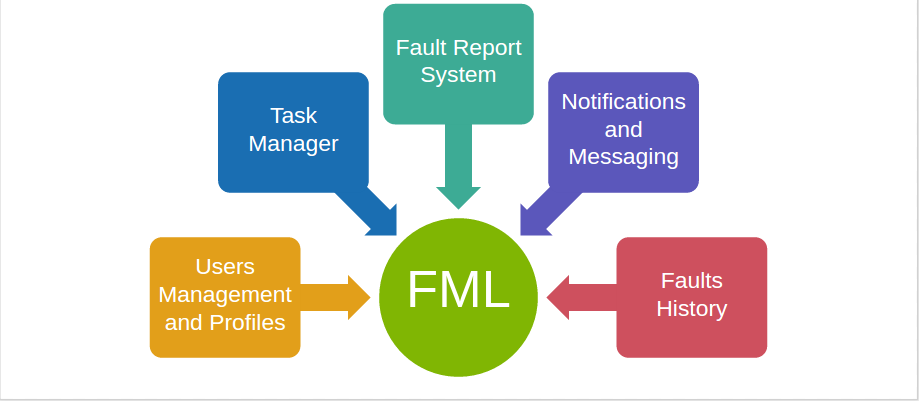
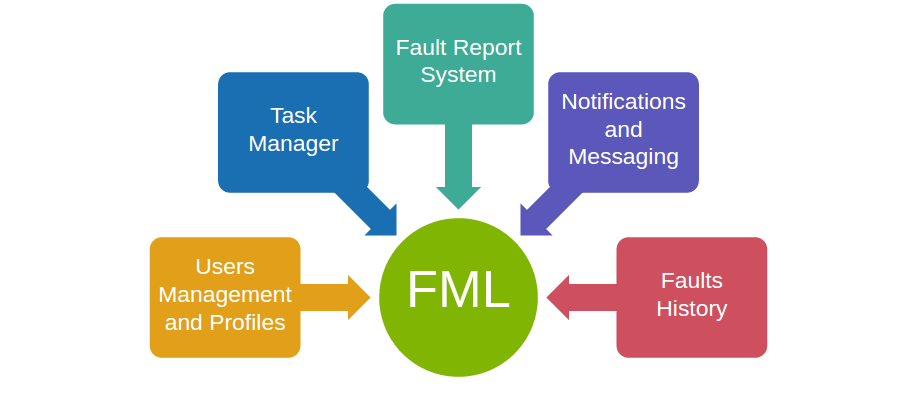
Minor fixes in the subsystem image

Changed region(s): [[0.0, 0.9875, 1.0, 1.0]]

diff --git a/ProjectPlan/tex/Subsystems.tex b/ProjectPlan/tex/Subsystems.tex
@@ -1,13 +1,16 @@
 % -*- root: ../ProjectPlan.tex -*-
 \section{Breakdown in Subsystems}
 
-
-In order to achieve the goals described in Section XX.XX.XX.X, the Fault Manager Lite application is divided into five subsystems: \emph{Task Management}, \emph{Report System}, \emph{Notification and Messaging System}, \emph{User Management} and \emph{Faults History and Statistics}, as seen on the following graph:
-
+\begin{figure}[hbtp]
+\centering
 \includegraphics[scale=0.5]{img/subsystems.png}
+\caption{Schematic for the subsystems of the project.}
+\label{figSubsystems}
+\end{figure}
+
+In order to achieve the goals described in Section XX.XX.XX.X, the Fault Manager Lite application is divided into five subsystems: \emph{Task Management}, \emph{Report System}, \emph{Notification and Messaging System}, \emph{User Management} and \emph{Faults History and Statistics}, as seen in figure \ref{figSubsystems}.
 
 A brief description of the functionalities of each mentioned subsystem can be found in the next sections of the document.
-
 
 \subsection{Task Management}
 \label{subsection Task Management}
